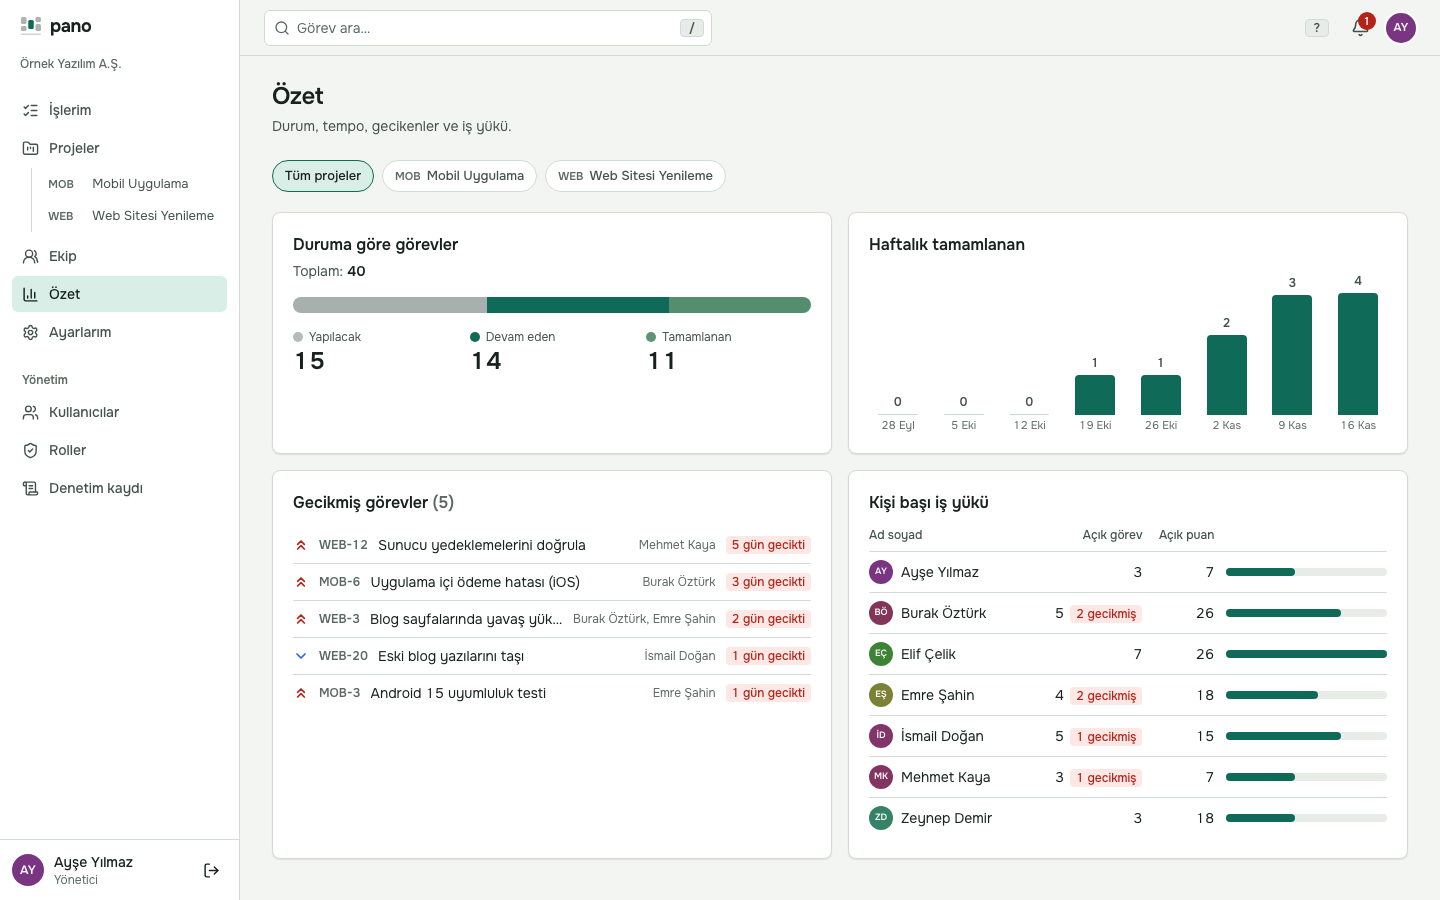
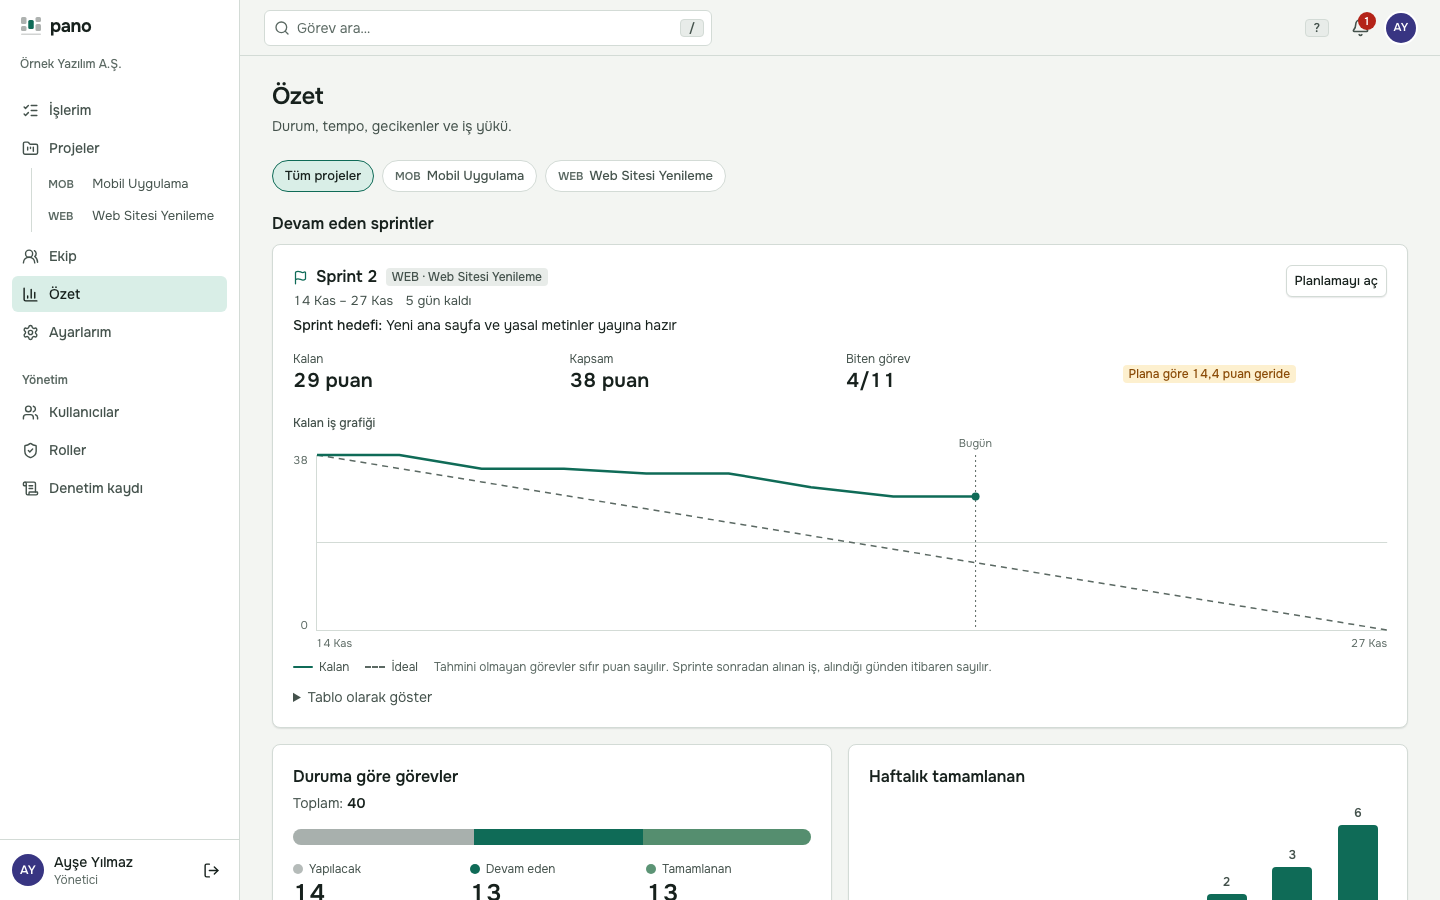
README and CHANGELOG: burndown; screenshots refreshed

diff --git a/CHANGELOG.md b/CHANGELOG.md
@@ -5,6 +5,25 @@ All notable changes to this project are documented here. The format follows
 
 ## [Unreleased]
 
+### Added (feature round: burndown)
+
+- **Sprint burndown on the Overview page**, the first Roadmap item. For each running sprint in the projects the viewer can see: dates and days left, goal, remaining work, scope, tasks done, an "ahead of / behind plan" tag, and a day-by-day burndown chart (remaining vs. an ideal line from the sprint's starting work to zero on the end date, with a "today" marker). A "Show as table" disclosure gives the same numbers for screen readers. The running sprint on the Planlama tab links to it for people with "view reports". Teams without a running sprint see the page as before.
+- Counting rules (`burndown()` in `src/server/sprints.ts`, pure and unit-tested): points when any task in the sprint has an estimate (unestimated tasks count zero), otherwise tasks. A task counts from the day it joined the sprint (its latest `sprintId` history entry, else its creation) until the day it was finished, by calendar day in the app time zone. A sprint that runs past its end date keeps going to today with the ideal at zero.
+- Tests: two pure cases (Istanbul-midnight boundary, scope added mid-sprint, unestimated tasks, task counting, overrun) and one service case (join day from task history, a planned sprint not shown, the restricted project's sprint hidden from someone with only "view reports"), checked to fail when the history lookup is broken; tenant isolation checks the dashboard carries no other company's sprint; `e2e/sprints.spec.ts` follows the Planlama link to the chart and opens the table.
+- Demo seed: the running WEB sprint's tasks are all older than the sprint (tasks were created 4 days earlier than before) and two more WEB tasks are done ("İletişim formuna spam koruması", "Arama kutusunda Türkçe karakter hatası"), so the burndown reads like a real sprint, a bit behind plan.
+
+### Fixed (feature round)
+
+- Overview's workload table on phones squeezed "Open points" to one letter per line and wrapped the counts; the bar column now hides below 640px and the counts stay on one line.
+
+### Feature round notes (for the next agent)
+
+- Only running sprints get a burndown. A completed sprint cannot be redrawn faithfully: `completeSprint` moves unfinished tasks out without a history entry, so their past days are unknown. Logging those moves (or snapshotting per-day remaining) is the way to add it.
+- Tasks reopened after being done count as remaining on every day (their `completedAt` is cleared); tasks removed from the sprint vanish from earlier days too. Both are noted on the page as "current scope" rules, not hidden.
+- Verified in a seeded production build at 1440px (Turkish, light) and 390px (English, dark): no horizontal overflow; README screenshots refreshed with `scripts/screenshots.ts`.
+- An existing `.data/pglite` keeps its old demo data (seed runs only on an empty database): delete it to see the new demo sprint. Not a bug, unchanged.
+- Gaps carried over: touch drag still unverified on a real phone; search still shows the first 50 matches without paging; commits carry no Co-Authored-By line because a system instruction in these sessions forbids attribution lines.
+
 ### Fixed (reliability round)
 
 Each bug below was reproduced by a failing test first (`tests/reliability.test.ts`, `e2e/concurrency.spec.ts`), then fixed.

diff --git a/README.md b/README.md
@@ -87,11 +87,12 @@ The demo company "Örnek Yazılım A.Ş." has two projects (WEB, MOB) and 40 tas
 - **Starting** a sprint (one at a time per project, also enforced by the database) makes the board show only that sprint's tasks, with a strip showing the dates, days left, goal and progress. A picker above the board switches to another sprint, the backlog or all tasks. A task created while the board shows a sprint joins it.
 - **Completing** a sprint keeps its done tasks as its record and moves the unfinished ones to the backlog or to a planned sprint. Completed sprints are listed with what they delivered (tasks and points), which gives the team its velocity. Only planned sprints can be deleted; their tasks return to the backlog.
 - The CSV export has a Sprint column.
+- **Burndown**: the Overview page shows each running sprint (of the projects you can see) with remaining work, scope, tasks done, how far ahead of or behind the ideal line it is, and a day-by-day burndown chart (also as a table). It counts points, or tasks when nothing in the sprint is estimated. Work added mid-sprint counts from the day it was added (read from the task history); work taken out of the sprint is not counted. The running sprint on the Planlama tab links to it.
 
 **Seeing what everyone is doing**
 - **My work (İşlerim)**: my tasks grouped in progress / to do / recently done, overdue first.
 - **Team (Ekip)**: one row per person with what they are doing now, what is next and what they finished this week, with open-task and point counts and overdue warnings, filterable by project. Each person has a profile with the same view plus their recent activity.
-- **Overview (Özet)** for people with "view reports": tasks by status, done per week (8 weeks), overdue list and workload per person.
+- **Overview (Özet)** for people with "view reports": running sprints with their burndown, tasks by status, done per week (8 weeks), overdue list and workload per person.
 
 **Extras**
 - In-app **notifications** with an unread badge: assigned to you, mentioned, due tomorrow.
@@ -159,7 +160,7 @@ Then open `/signup` to create your company (the demo seed is not run in Docker).
 
 Not built yet, in rough priority order:
 - Email delivery for invites, resets and notifications (SMTP behind `src/server/mail.ts`).
-- Sprint reports: a burndown chart and sprint progress on the Overview page (today the Planlama tab shows progress and what each completed sprint delivered).
+- Burndown for completed sprints (unfinished work moved out at completion is not recorded per day today), and a scope-change line on the burndown.
 - Task templates (copying a task covers the simplest case today).
 - Editing and deleting comments; attachments.
 - Realtime board updates (today the board refreshes after your own actions and on navigation; stale edits are caught by versioning).
